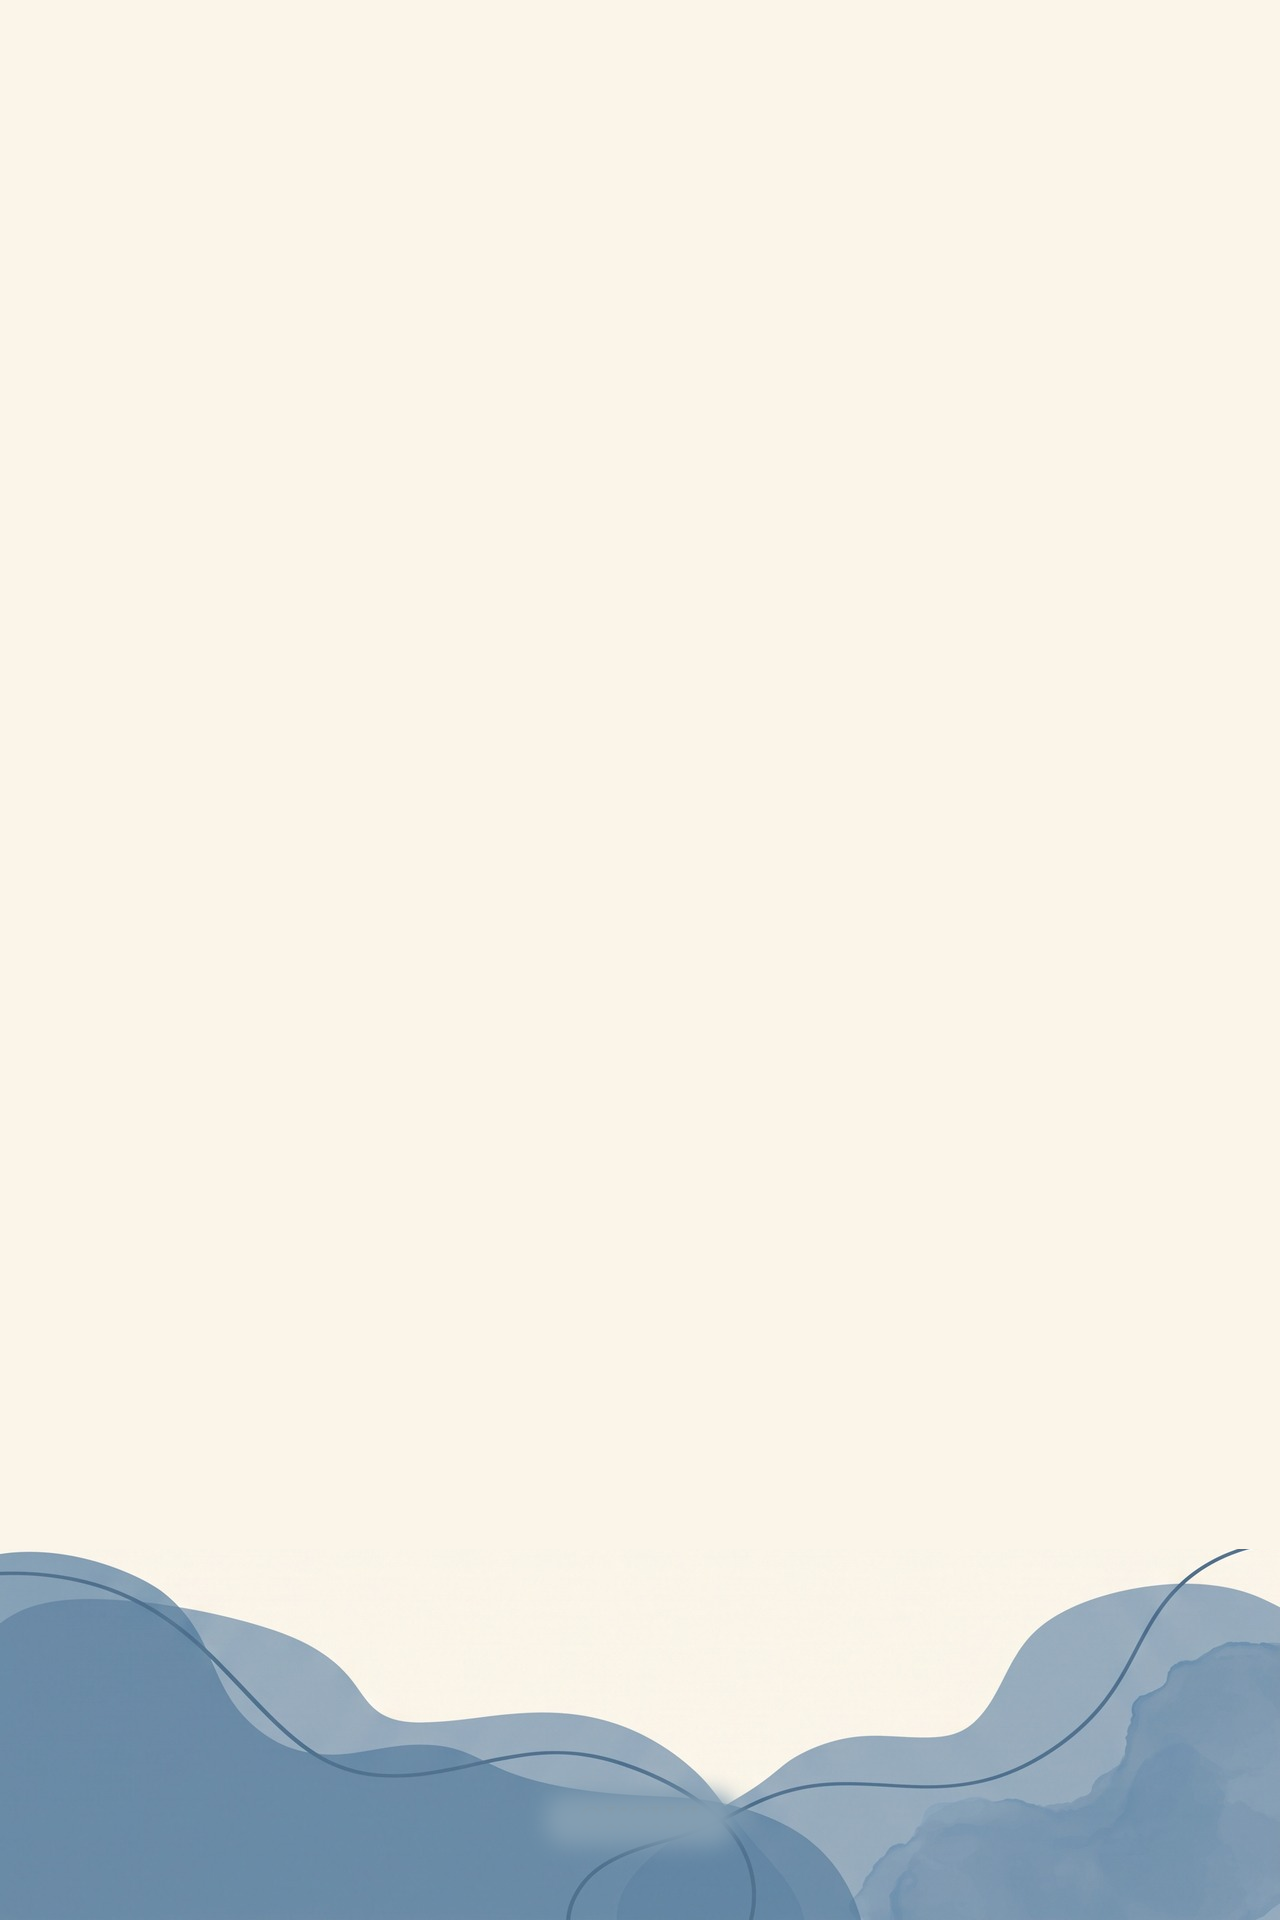
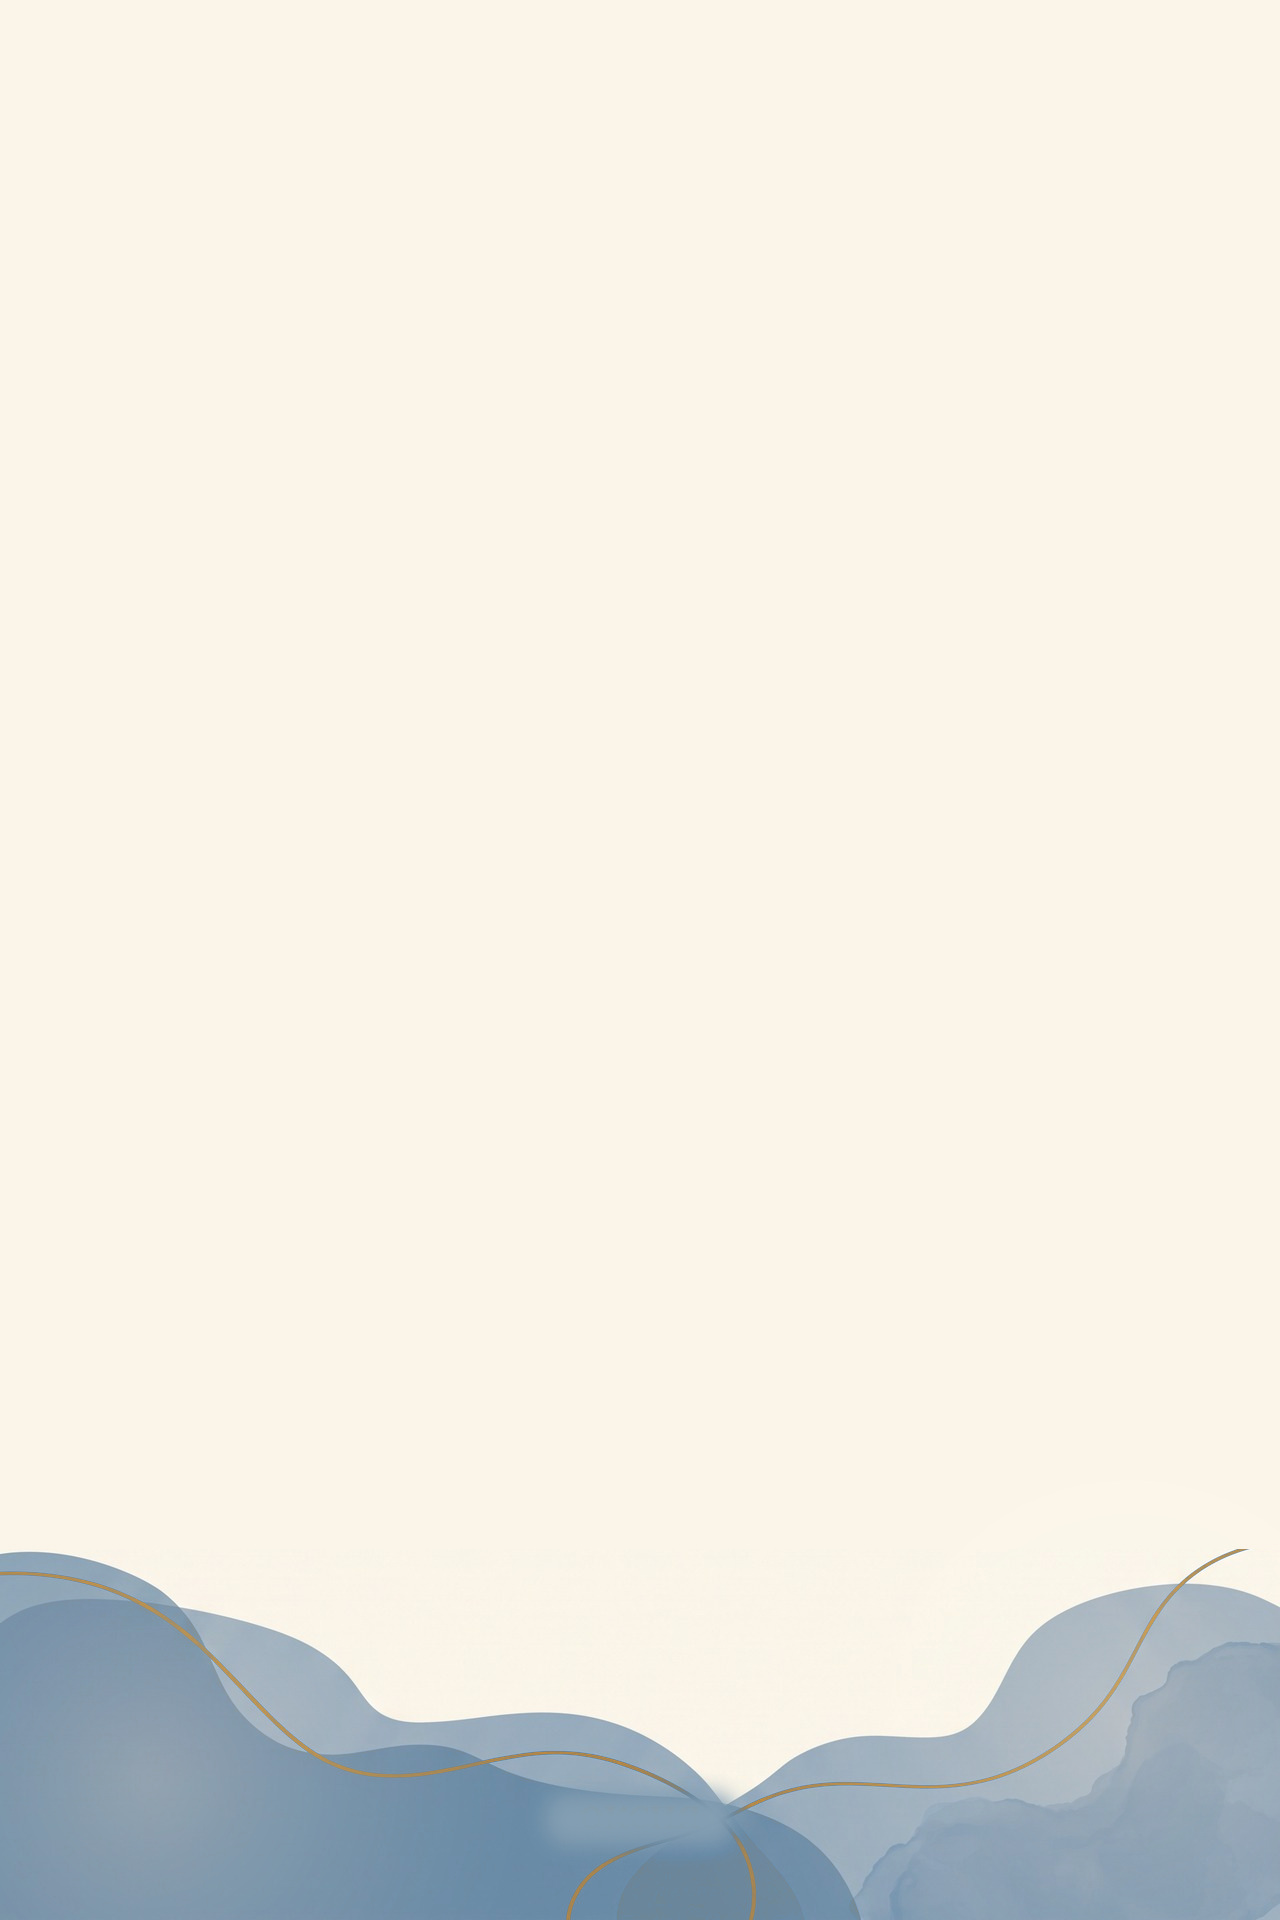
ОКСИЯ: правки по фидбеку Натальи — новый чистый лого-исходник крупнее и без искажений, цветной приглушённый заголовок истории, крупнее подпись ОКСИЯ·ВАСИЛЬЕВСКИЙ ОСТРОВ, тёплые бронза/золото акценты в облаках (линия + блики)

diff --git a/story-preview/_build/story-sample-01.html b/story-preview/_build/story-sample-01.html
@@ -14,6 +14,9 @@
     --blue:#4682C8;
     --red:#D2463C;
     --green:#4F8C58;
+    --blue-muted:#43678F;
+    --red-muted:#A53D2D;
+    --green-muted:#496E41;
     --chip-bg:#FBF5E9;
   }
   *{margin:0;padding:0;box-sizing:border-box;}
@@ -37,7 +40,7 @@
 
   .kick{
     font-family:"PT Serif",serif; font-weight:700;
-    font-size:32px; letter-spacing:.34em; text-transform:uppercase;
+    font-size:42px; letter-spacing:.28em; text-transform:uppercase;
     color:var(--bronze-soft);
   }
 
@@ -51,7 +54,7 @@
   .disp{
     font-family:"Playfair Display",serif; font-weight:800;
     font-size:158px; line-height:1.05; letter-spacing:-.005em;
-    color:var(--ink);
+    color:var(--blue-muted);
     margin-top:40px;
   }
   .sub{ margin-top:40px; font-size:53px; font-weight:700; color:var(--bronze); }
@@ -76,7 +79,7 @@
 
   .logowrap{ position:absolute; left:0; right:0; bottom:56px; display:flex;
     align-items:center; justify-content:center; }
-  .logowrap img{ height:130px; width:auto; }
+  .logowrap img{ height:172px; width:auto; }
 </style>
 </head>
 <body>

diff --git a/story-preview/_build/card-template.html b/story-preview/_build/card-template.html
@@ -42,7 +42,7 @@
   .price .per{font-family:"PT Serif",serif;font-weight:400;font-style:italic;font-size:26px;
     color:rgba(251,245,233,.86);}
 
-  .logo{height:118px;width:auto;}
+  .logo{height:146px;width:auto;}
 </style>
 </head>
 <body>
